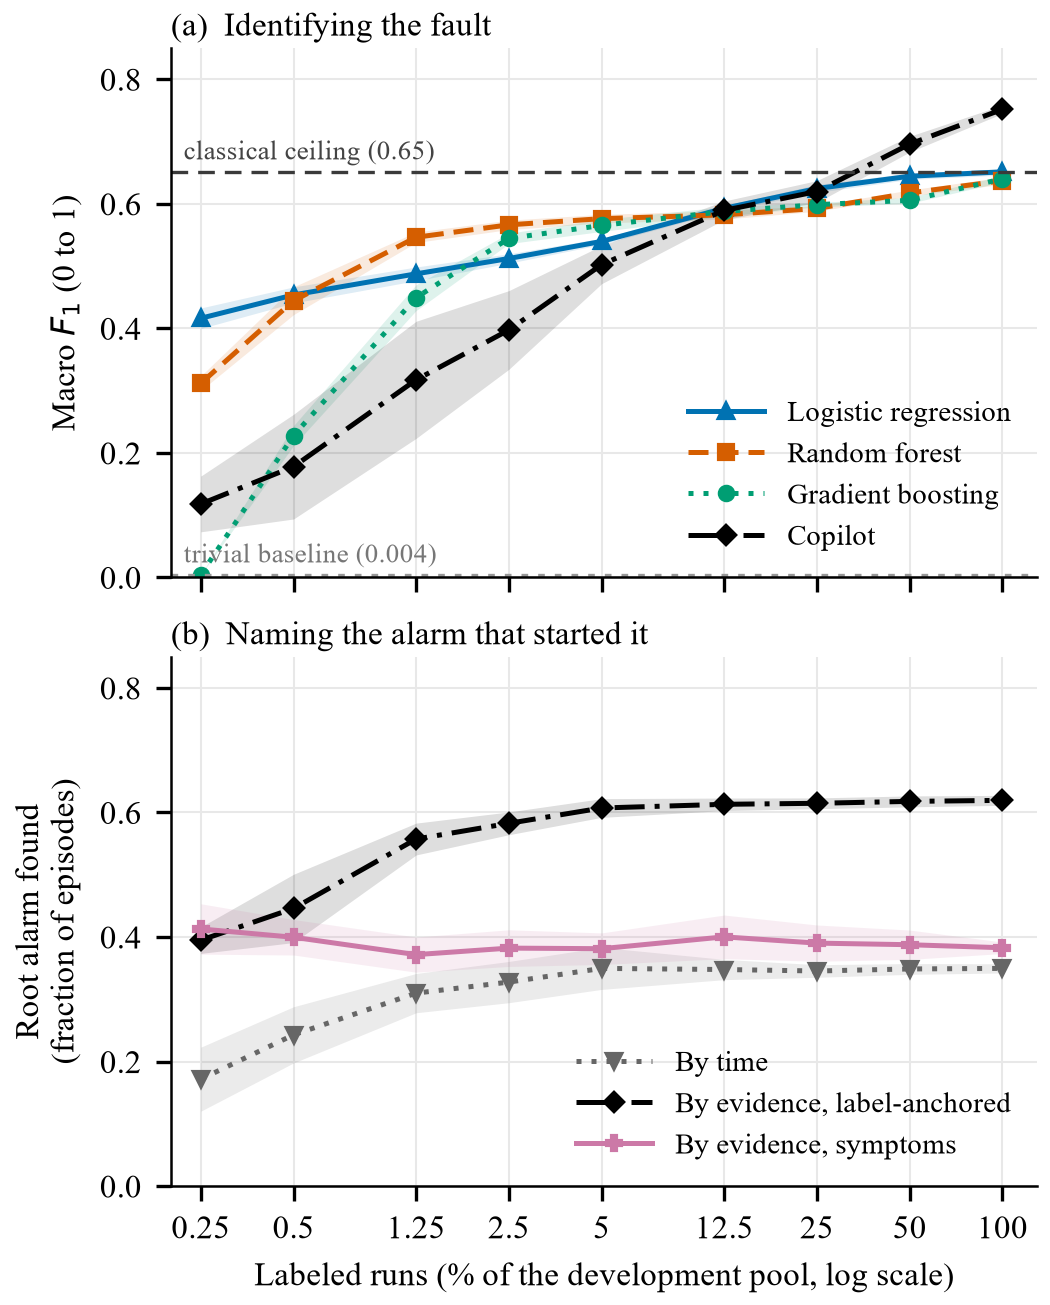
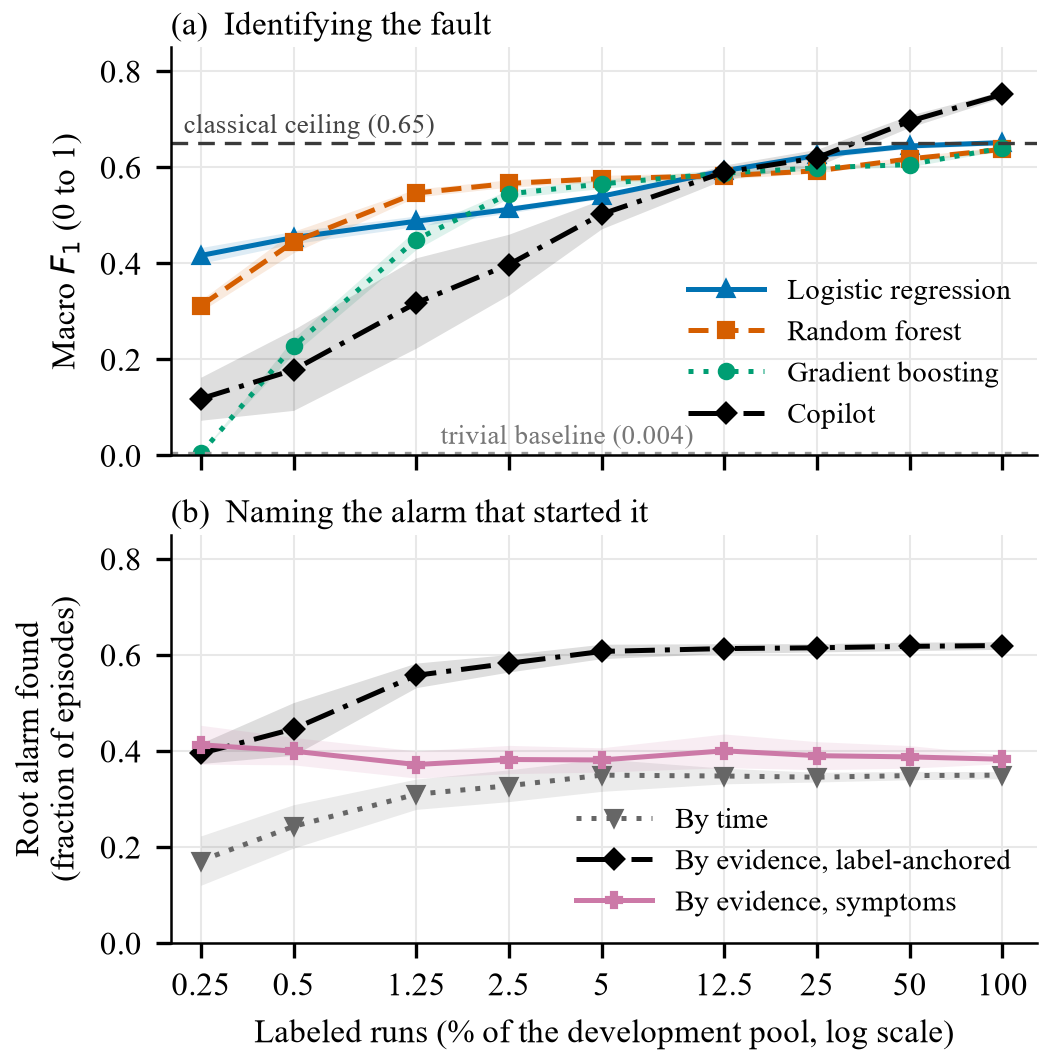
Trim the AI declaration and shorten the main figure
Two cuts toward the page budget that cost no content.

The AI declaration restated, almost word for word, what Section IV already
declares about the reasoning step being rule-based and running offline. It now
points at Section IV instead: 204 words to 147.

The main figure was 11.05 cm tall in a 23 cm column. At 9 cm both panels stay
legible and the message is unchanged; the trivial-baseline label moved right,
since the lower left of panel (a) is now crossed by the gradient boosting curve.

Content goes from 6.68 to 6.58 pages against a target of 6, with the bibliography
allowed to spill onto the seventh. The figure returned less than expected, 0.04
of a page rather than the 0.1 its height suggested, because it is a float and the
reflow moved other material onto the space it freed.

The larger savings found by the duplication scan are all inside Results and
Discussion, which is being restructured, so they wait for that.

Claude-Session: https://claude.ai/code/session_0158TTcEUgrUnzyimiBPA8w8

diff --git a/09_plot_label_efficiency.py b/09_plot_label_efficiency.py
@@ -77,7 +77,7 @@ if ag is None:
     print("note: results/label_efficiency_agent.csv not found, drawing panel A only")
 
 COL_CM = 8.89 / 2.54                       # one IEEE column, in inches
-fig, axes = plt.subplots(2 if ag is not None else 1, 1, figsize=(COL_CM, 4.35 if ag is not None else 2.65),
+fig, axes = plt.subplots(2 if ag is not None else 1, 1, figsize=(COL_CM, 9.0 / 2.54 if ag is not None else 2.65),
                          sharex=True, constrained_layout=True)
 axes = np.atleast_1d(axes)
 axA = axes[0]
@@ -101,7 +101,9 @@ ceiling = float(df[df.pct_of_dev_labels == 100]["F1macro_mean"].max())
 axA.axhline(ceiling, color="#3a3a3a", linestyle=(0, (5, 3)), linewidth=0.8)
 axA.text(0.22, ceiling + 0.02, "classical ceiling (%.2f)" % ceiling, fontsize=6.5, color="#444444")
 axA.axhline(TRIVIAL_F1, color="#999999", linestyle=(0, (2, 3)), linewidth=0.8)
-axA.text(0.22, TRIVIAL_F1 + 0.02, "trivial baseline (%.3f)" % TRIVIAL_F1, fontsize=6.5, color="#777777")
+# a la derecha del primer presupuesto: con la figura mas baja, ahi abajo a la
+# izquierda ya pasa la curva de gradient boosting
+axA.text(1.5, TRIVIAL_F1 + 0.02, "trivial baseline (%.3f)" % TRIVIAL_F1, fontsize=6.5, color="#777777")
 axA.set_ylabel(r"Macro $F_1$ (0 to 1)")
 axA.set_ylim(0.0, 0.85)
 axA.legend(loc="lower right", frameon=False, ncol=1, handlelength=2.6)
